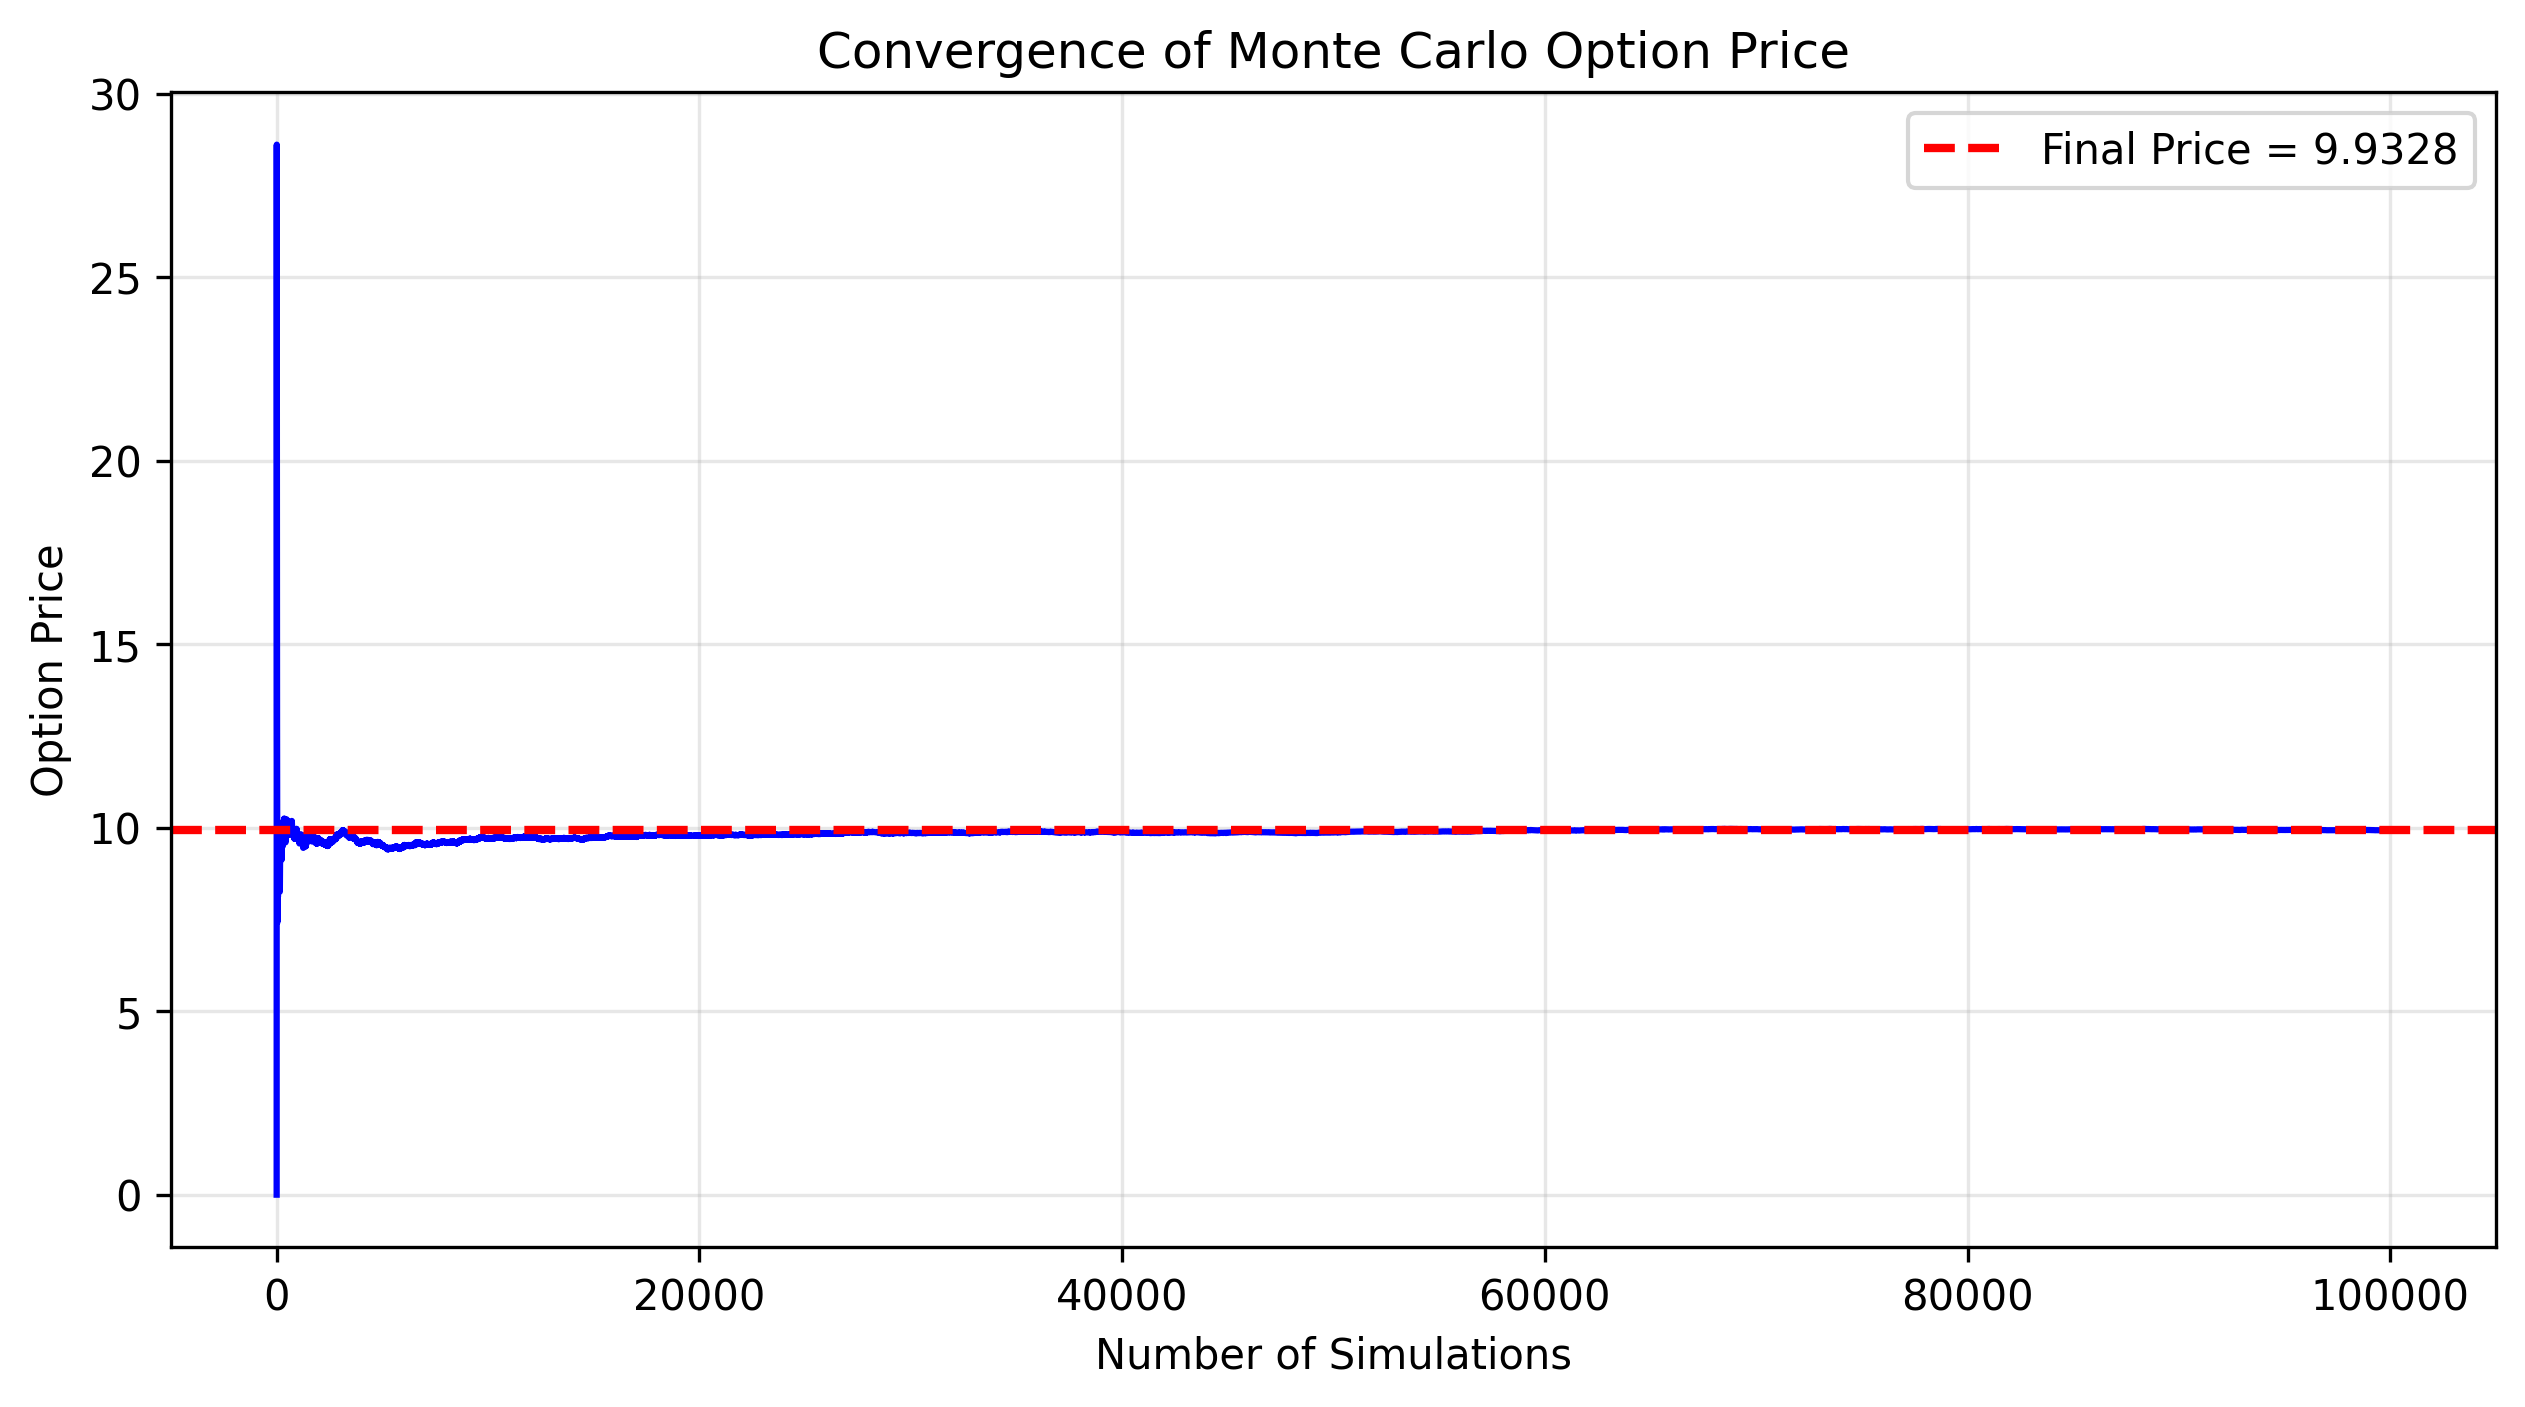
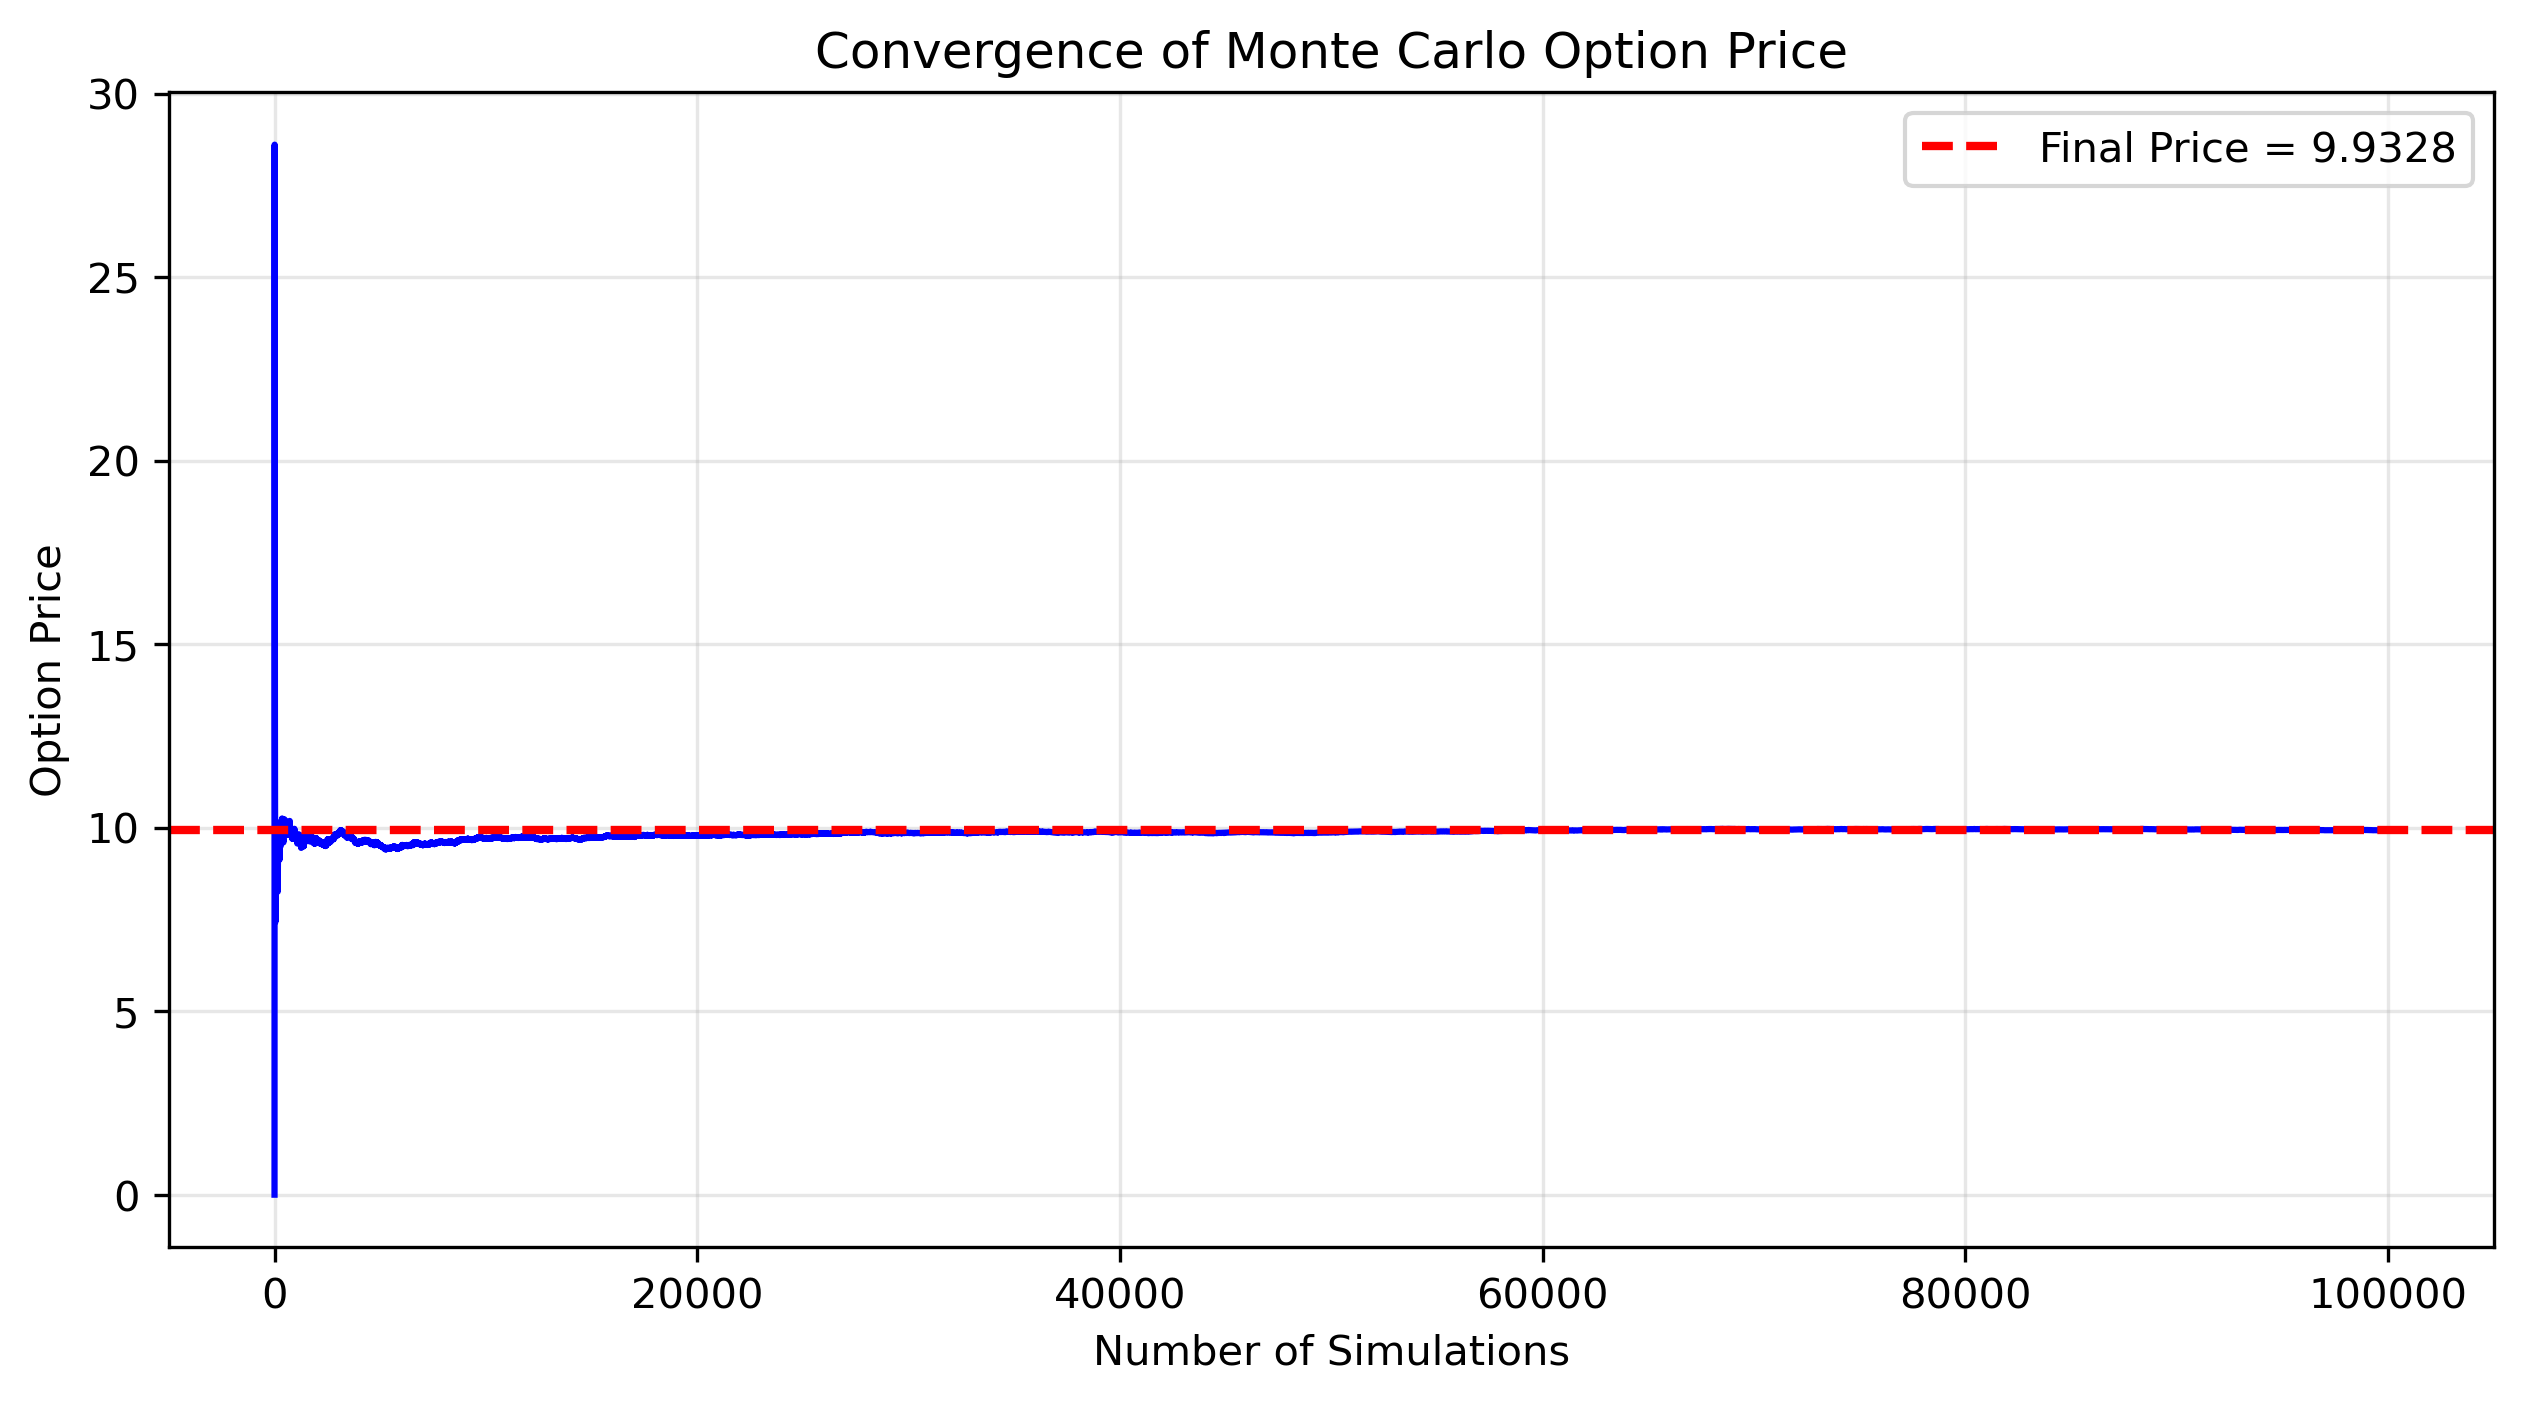
Fix LSM exercise loop, add validation and update README

diff --git a/validate.py b/validate.py
@@ -1,0 +1,51 @@
+"""Validate the Monte Carlo pricer against independent benchmarks.
+
+Benchmarks:
+  - Black-Scholes closed form for the European put
+  - Cox-Ross-Rubinstein (CRR) binomial tree for the American put
+"""
+import math
+import numpy as np
+from Option_pricer import OptionPricer
+
+
+def norm_cdf(x):
+    return 0.5 * (1.0 + math.erf(x / math.sqrt(2.0)))
+
+
+def black_scholes_put(S0, K, r, sigma, T):
+    d1 = (math.log(S0 / K) + (r + 0.5 * sigma**2) * T) / (sigma * math.sqrt(T))
+    d2 = d1 - sigma * math.sqrt(T)
+    return K * math.exp(-r * T) * norm_cdf(-d2) - S0 * norm_cdf(-d1)
+
+
+def crr_put(S0, K, r, sigma, T, steps=5000, american=True):
+    dt = T / steps
+    u = math.exp(sigma * math.sqrt(dt))
+    d = 1.0 / u
+    p = (math.exp(r * dt) - d) / (u - d)
+    disc = math.exp(-r * dt)
+    j = np.arange(steps + 1)
+    values = np.maximum(K - S0 * u ** (steps - j) * d ** j, 0)
+    for i in range(steps - 1, -1, -1):
+        values = disc * (p * values[:-1] + (1 - p) * values[1:])
+        if american:
+            j = np.arange(i + 1)
+            values = np.maximum(values, K - S0 * u ** (i - j) * d ** j)
+    return values[0]
+
+
+if __name__ == "__main__":
+    S0, K, r, sigma, T = 100, 105, 0.05, 0.25, 1.0
+    pricer = OptionPricer(S0, K, r, sigma, T, N=252, M=100000)
+
+    mc_euro = pricer.price_put()
+    mc_amer = pricer.price_american_put()
+    bs_euro = black_scholes_put(S0, K, r, sigma, T)
+    crr_amer = crr_put(S0, K, r, sigma, T)
+
+    print(f"European put : MC = {mc_euro:.4f} | Black-Scholes = {bs_euro:.4f} "
+          f"| error = {abs(mc_euro - bs_euro) / bs_euro:.2%}")
+    print(f"American put : LSM = {mc_amer:.4f} | CRR tree (5000 steps) = {crr_amer:.4f} "
+          f"| error = {abs(mc_amer - crr_amer) / crr_amer:.2%}")
+    print(f"Early exercise premium (CRR): {crr_amer - bs_euro:.4f}")

diff --git a/Option_pricer.py b/Option_pricer.py
@@ -70,14 +70,14 @@ class OptionPricer:
                     S_t[itm] ** 2
                 ])
 
-        # OLS regression to estimate continuation value conditional on S_t
-        beta = np.linalg.lstsq(X, cashflow_discounted, rcond=None)[0]
-        continuation = X @ beta
-        exercise = intrinsic[itm] > continuation
-        itm_indices = np.where(itm)[0]
-        exercise_indices = itm_indices[exercise]
-        cashflow[exercise_indices] = intrinsic[exercise_indices]
-        exercise_time[exercise_indices] = t
+                # OLS regression to estimate continuation value conditional on S_t
+                beta = np.linalg.lstsq(X, cashflow_discounted, rcond=None)[0]
+                continuation = X @ beta
+                exercise = intrinsic[itm] > continuation
+                itm_indices = np.where(itm)[0]
+                exercise_indices = itm_indices[exercise]
+                cashflow[exercise_indices] = intrinsic[exercise_indices]
+                exercise_time[exercise_indices] = t
         american_price = np.mean(
             cashflow * np.exp(-self.r * self.dt * exercise_time))
         return american_price

diff --git a/README.md b/README.md
@@ -1,49 +1,60 @@
 # American Option Pricing via Longstaff-Schwartz Monte Carlo
 
-Implementation of the Longstaff-Schwartz (Least-Squares Monte Carlo) algorithm for pricing American put options.
+Python implementation of the Longstaff-Schwartz (Least-Squares Monte Carlo, LSM) algorithm for pricing American put options, validated against a binomial tree and the Black-Scholes closed form.
 
 ## Overview
 
-This project implements a Monte Carlo framework for pricing European and American options under the Geometric Brownian Motion (GBM) model. The core contribution is an implementation of the Longstaff-Schwartz (LSM) algorithm for American put options, which solves an optimal stopping problem through backward induction and least-squares regression.
+This project implements a Monte Carlo framework for pricing European and American options under Geometric Brownian Motion (GBM). The core of the project is the LSM algorithm, which solves the optimal stopping problem for an American put by backward induction and least-squares regression, written from scratch with NumPy.
 
 ## Core Algorithm
 
 1. Simulate M price paths under risk-neutral GBM.
-2. At each time step (from maturity backwards):
-   - Compute intrinsic value: max(K - S_t, 0)
-   - Filter in-the-money paths
-   - Regress discounted future cashflow on [1, S_t, S_t^2] using OLS
-   - Exercise if intrinsic > continuation value
-3. Discount all cashflows back to t=0 and take the average.
+2. At each time step, from maturity backwards:
+   - Compute the intrinsic value: max(K - S_t, 0)
+   - Select the in-the-money paths
+   - Regress the discounted future cashflow on [1, S_t, S_t^2] using OLS to estimate the continuation value
+   - Exercise if intrinsic value > continuation value
+3. Discount all cashflows back to t = 0 and take the average.
 
 ## Results
+
+Base case: S0 = 100, K = 105, r = 5%, sigma = 25%, T = 1 year, 252 time steps, 100,000 paths, seed = 42. Reproduce with `python validate.py`.
+
+| Option | Monte Carlo | Benchmark | Error |
+|---|---|---|---|
+| European put | 9.8528 | 9.8813 (Black-Scholes) | 0.29% |
+| American put (LSM) | 10.5803 | 10.6414 (CRR binomial tree, 5,000 steps) | 0.57% |
+
+The American put is worth more than the European put because of the early exercise premium (about 0.76 in the CRR tree).
 
 ### Optimal Exercise Boundary
 
 ![Exercise Boundary](figures/exercise_boundary.png)
 
-The boundary separates the "exercise now" region (below the curve) from the "continue holding" region (above the curve).
+The boundary separates the "exercise now" region (below the curve) from the "continue holding" region (above the curve). It is plotted as the 95th percentile of stock prices at which the simulated paths exercise at each step, which is a practical estimate of the boundary rather than an exact solution.
 
-### Terminal Price Distribution
+### Sensitivity Analysis
 
-![Terminal Distribution](figures/terminal_distribution.png)
+American put price as one parameter is varied and the others are held at the base case (50,000 paths). Reproduce with `python sensitivity.py`.
 
-Distribution of simulated terminal prices under risk-neutral GBM. The mean (green line) is close to the theoretical risk-neutral expectation `S0 * exp(rT)`.
+| Volatility | Price | Strike | Price | Maturity (yrs) | Price | Risk-free rate | Price |
+|---|---|---|---|---|---|---|---|
+| 0.10 | 5.34 | 95 | 5.71 | 0.5 | 8.72 | 1% | 12.31 |
+| 0.20 | 8.68 | 100 | 7.95 | 1.0 | 10.56 | 3% | 11.39 |
+| 0.30 | 12.52 | 105 | 10.56 | 1.5 | 11.81 | 5% | 10.56 |
+| 0.40 | 16.42 | 110 | 13.72 | 2.0 | 12.77 | 7% | 9.89 |
 
-### Monte Carlo Convergence
-
-![Convergence](figures/convergence.png)
-
-Convergence of the Monte Carlo option price as the number of simulations increases. The price stabilizes after approximately 20,000 paths.
+The price rises with volatility, strike and maturity, and falls as the risk-free rate rises, as expected for a put option.
 
 ## Project Structure
 
 ```
 quant-projects/
-├── Option_pricer.py       # OptionPricer class
+├── Option_pricer.py       # OptionPricer class (simulation, European and LSM pricing, plots)
 ├── main.py                # Main entry point
 ├── sensitivity.py         # Parameter sensitivity analysis
-├── figures/               # Result images
+├── validate.py            # Benchmarks: Black-Scholes and CRR binomial tree
+├── figures/               # Result images (create this folder before running main.py)
 ├── .gitignore
 └── README.md
 ```
@@ -59,7 +70,14 @@ pip install numpy matplotlib
 ### Run
 
 ```bash
+mkdir -p figures
 python main.py
+```
+
+For the validation against benchmarks:
+
+```bash
+python validate.py
 ```
 
 For sensitivity analysis:
@@ -94,8 +112,15 @@ V_0 = sup_tau E[ exp(-r * tau) * max(K - S_tau, 0) ]
 V(t, S) = max( intrinsic(t, S), E[ exp(-r * dt) * V(t + dt, S_{t+dt}) ] )
 ```
 
+## Limitations
+
+- The continuation value is estimated with a quadratic polynomial basis. A richer basis (for example cubic) can reduce the remaining bias in the LSM price.
+- Time is discretised into 252 steps, so exercise is allowed only at those dates (a Bermudan approximation of the American option).
+- LSM prices are estimates with Monte Carlo noise, which depends on the number of paths and the random seed.
+- The exercise boundary plot is an empirical estimate from simulated paths, not an exact solution.
+
 ## Author
 
-Haokun Li  
-BSc Mathematics & Statistics, King's College London  
-haokun.2.li@kcl.ac.uk | linkedin.com/in/haokun-li-kcl | github.com/Lucas-Haokun
+Haokun Li
+BSc Mathematics & Statistics, King's College London
+haokun.2.li@kcl.ac.uk | www.linkedin.com/in/haokun-li-kcl | github.com/Lucas-Haokun
